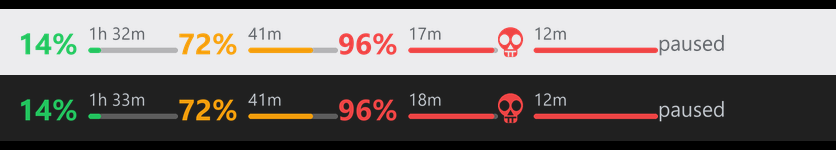
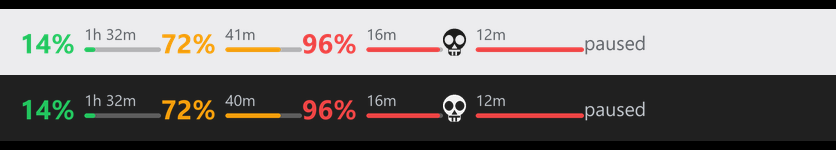
Draw preview.png from the widget own renderer
make_preview.py loads the app as a module and calls TaskbarWidget._render, so
the picture in the README is the same code that paints the taskbar and cannot
drift from it. Regenerated with the theme-coloured skull.

Claude-Session: https://claude.ai/code/session_01PWsypiNm1Be9wb2uKuaiEW

Changed region(s): [[0.0, 0.1867, 0.8708, 0.4], [0.0, 0.6133, 0.8708, 0.8267]]

diff --git a/make_preview.py b/make_preview.py
@@ -1,0 +1,71 @@
+"""Renders preview.png: the widget in every state it has, on both themes.
+
+Unlike make_icon.py this one drives the real renderer - it loads the app as a
+module and calls TaskbarWidget._render, so the picture in the README cannot
+drift away from what the taskbar actually shows.
+"""
+
+import importlib.util
+import os
+import sys
+import types
+from datetime import datetime, timedelta, timezone
+
+HERE = os.path.dirname(os.path.abspath(__file__))
+OUT = os.path.join(HERE, "preview.png")
+
+W, H = 836, 150          # two 66px bands, with a black margin above and below
+BAND = 66
+MARGIN = 9
+PANEL, PANEL_H = 141, 44
+INSET = 20
+LIGHT, DARK = (236, 236, 238, 255), (32, 32, 32, 255)
+
+# percent, minutes until the reset, error line
+STATES = [(14, 92, None), (72, 41, None), (96, 17, None), (100, 12, None),
+          (0, None, "paused")]
+
+
+def load_app():
+    """The app is a .pyw, so it cannot simply be imported by name."""
+    spec = importlib.util.spec_from_file_location(
+        "claude_usage_bar", os.path.join(HERE, "claude_usage_bar.pyw"))
+    module = importlib.util.module_from_spec(spec)
+    sys.modules[spec.name] = module
+    spec.loader.exec_module(module)
+    if not module.import_dependencies():
+        raise SystemExit("Pillow / requests are missing")
+    return module
+
+
+def widget(app, cfg, light):
+    """A TaskbarWidget with just enough around it to draw with."""
+    app.windows_uses_light_theme = lambda: light
+    obj = app.TaskbarWidget.__new__(app.TaskbarWidget)
+    obj.app = types.SimpleNamespace(cfg=cfg)
+    return obj
+
+
+def main():
+    app = load_app()
+    cfg = app.load_config()
+    Image = app.Image
+    canvas = Image.new("RGBA", (W, H), (0, 0, 0, 255))
+
+    for row, (light, fill) in enumerate([(True, LIGHT), (False, DARK)]):
+        top = MARGIN + row * BAND
+        canvas.paste(fill, (0, top, W, top + BAND))
+        obj = widget(app, cfg, light)
+        y = top + (BAND - PANEL_H) // 2
+        for col, (pct, minutes, error) in enumerate(STATES):
+            reset = None if minutes is None else (
+                datetime.now(timezone.utc).astimezone() + timedelta(minutes=minutes))
+            panel = app.TaskbarWidget._render(obj, PANEL, PANEL_H, pct, reset, error)
+            canvas.alpha_composite(panel, (INSET + col * PANEL, y))
+
+    canvas.convert("RGB").save(OUT)
+    print("wrote %s" % OUT)
+
+
+if __name__ == "__main__":
+    main()

diff --git a/README.md b/README.md
@@ -401,6 +401,7 @@ success / caution / critical colours.
 | `install.ps1` | Install, update (`-Update`), uninstall (`-Uninstall`). Registers the logon task; `-UseStartupFolder` for the old shortcut. |
 | `build.ps1` | Builds the standalone `dist\ClaudeUsageBar.exe`. |
 | `make_icon.py` | Draws `assets\ClaudeUsageBar.ico` for the exe and the shortcut. |
+| `make_preview.py` | Redraws `preview.png` by calling the widget's own renderer, so the README picture cannot drift from the app. |
 | `preview.png` | The widget at 14%, 72%, 96%, 100% and rate-limited, light and dark. |
 | `assets/` | The app icon. |
 | `.icons/` | Generated `.ico` files (throwaway). |
